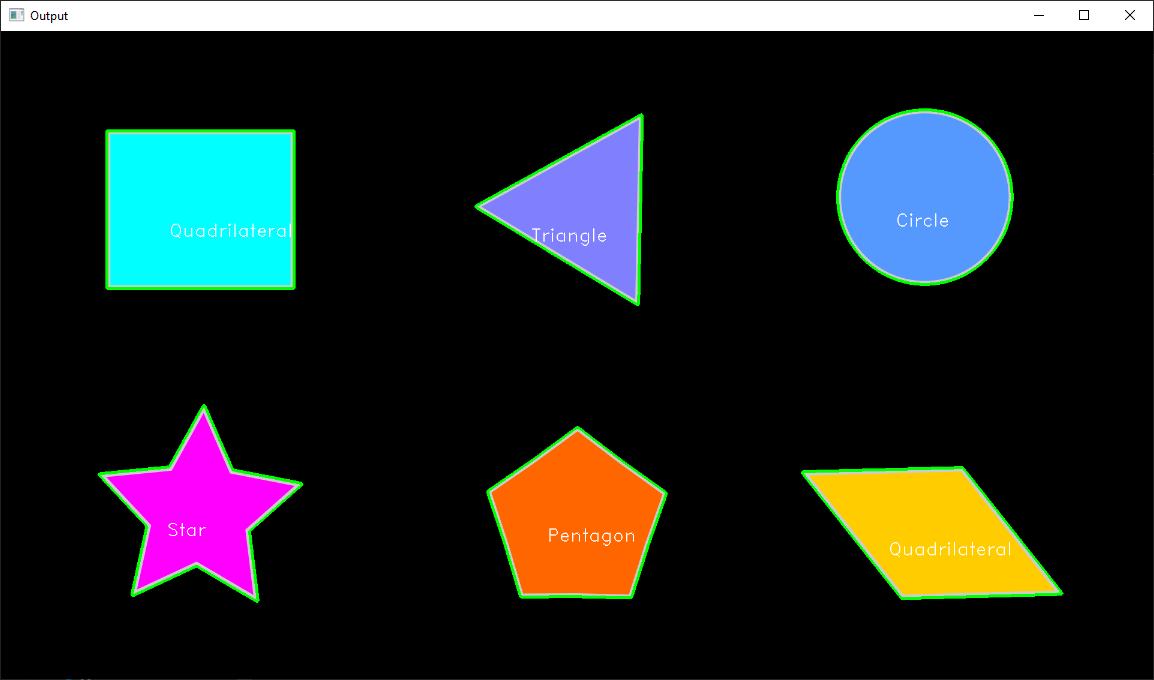
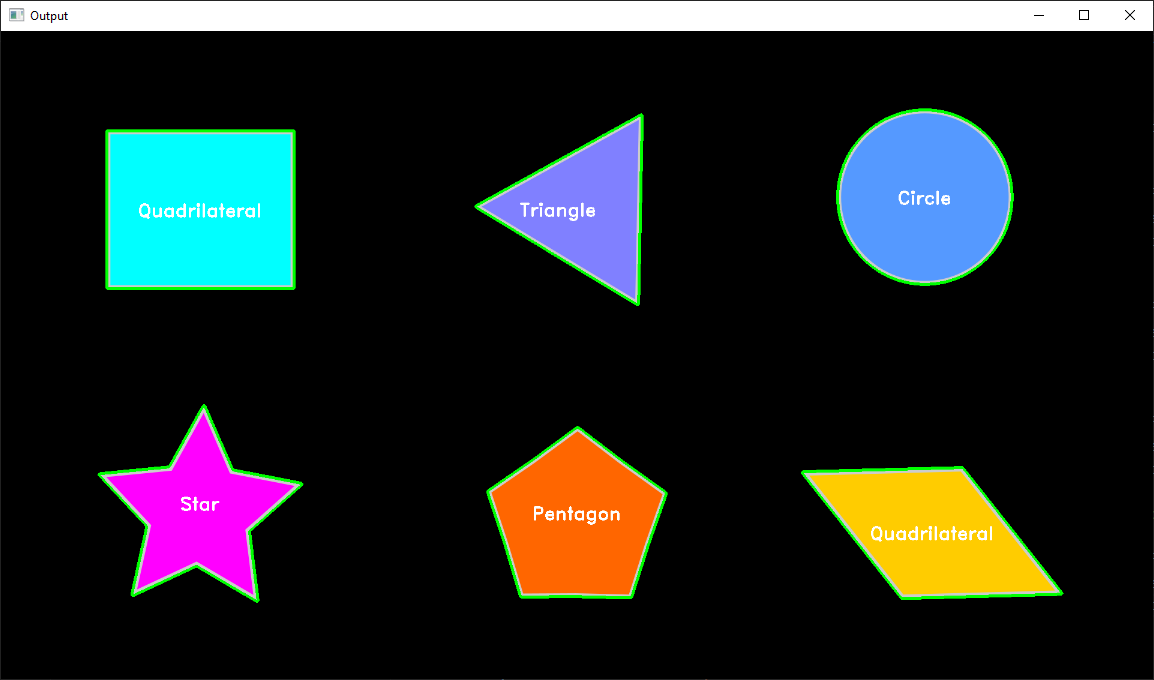
Updated Text Label Coordinates

diff --git a/Contour_Detection.py b/Contour_Detection.py
@@ -97,9 +97,8 @@ for i, contour in enumerate(contours):
 
     # Retrieving coordinates of the contour so that we can put text over the shape.
     x, y, w, h = cv2.boundingRect(approx)
-    x_mid = int(x + (w/3)) # This is an estimation of where the middle of the shape is in terms of the x-axis.
-    y_mid = int(y + (h/1.5)) # This is an estimation of where the middle of the shape is in terms of the y-axis.
-
+    x_mid = int(x + w/2) # This is an estimation of where the middle of the shape is in terms of the x-axis.
+    y_mid = int(y + h/2) # This is an estimation of where the middle of the shape is in terms of the y-axis.
     # Setting some variables which will be used to display text on the final image
     # cv.putText(img, text, org, fontFace, fontScale, color[, thickness[, lineType[, bottomLeftOrigin]]]) -> img
     text_coordinates = (x_mid, y_mid)
@@ -109,22 +108,40 @@ for i, contour in enumerate(contours):
     else:
         text_color = (255, 255, 255) # white
     text_font = cv2.FONT_HERSHEY_DUPLEX
-    text_thickness = 1  
+    text_thickness = 2
 
     # Identify the shape by the number of edges the contour has. 
     if len(approx) == 3:
-        cv2.putText(image, "Triangle", text_coordinates, text_font, text_thickness, text_color, text_thickness) # Text on the image
+        text = "Triangle"
+        (text_width, text_height), baseline = cv2.getTextSize(text, text_font, fontScale, text_thickness)
+        text_coordinates = (int(x_mid - text_width/2), int(y_mid + text_height/2))
+        cv2.putText(image, "Triangle", text_coordinates, text_font, fontScale, text_color, text_thickness) # Text on the image
     elif len(approx) == 4: # square / rectangle / parallelogram /
-        cv2.putText(image, "Quadrilateral", text_coordinates, text_font, text_thickness, text_color, text_thickness)
-    elif len(approx) == 5: 
-        cv2.putText(image, "Pentagon", text_coordinates, text_font, fontScale, text_color, text_thickness)
+        text = "Quadrilateral"
+        (text_width, text_height), baseline = cv2.getTextSize(text, text_font, fontScale, text_thickness)
+        text_coordinates = (int(x_mid - text_width/2), int(y_mid + text_height/2))
+        cv2.putText(image, text, text_coordinates, text_font, fontScale, text_color, text_thickness)
+    elif len(approx) == 5:
+        text = "Pentagon"
+        (text_width, text_height), baseline = cv2.getTextSize(text, text_font, fontScale, text_thickness)
+        text_coordinates = (int(x_mid - text_width/2), int(y_mid + text_height/2))
+        cv2.putText(image, text, text_coordinates, text_font, fontScale, text_color, text_thickness)
     elif len(approx) == 6:
-        cv2.putText(image, "Hexagon", text_coordinates, text_font, fontScale, text_color, text_thickness)
+        text = "Hexagon"
+        (text_width, text_height), baseline = cv2.getTextSize(text, text_font, fontScale, text_thickness)
+        text_coordinates = (int(x_mid - text_width/2), int(y_mid + text_height/2))
+        cv2.putText(image, text, text_coordinates, text_font, fontScale, text_color, text_thickness)
     elif len(approx) == 10:
-        cv2.putText(image, "Star", text_coordinates, text_font, fontScale, text_color, text_thickness)
+        text = "Star"
+        (text_width, text_height), baseline = cv2.getTextSize(text, text_font, fontScale, text_thickness)
+        text_coordinates = (int(x_mid - text_width/2), int(y_mid + text_height/2))
+        cv2.putText(image, text, text_coordinates, text_font, fontScale, text_color, text_thickness)
     else:
         # If the length is not any of the above, we assume the shape/contour to be a circle.
-        cv2.putText(image, "Circle", text_coordinates, text_font, fontScale, text_color, text_thickness)
+        text = "Circle"
+        (text_width, text_height), baseline = cv2.getTextSize(text, text_font, fontScale, text_thickness)
+        text_coordinates = (int(x_mid - text_width/2), int(y_mid + text_height/2))
+        cv2.putText(image, text, text_coordinates, text_font, fontScale, text_color, text_thickness)
     
 # Displaying the image with the detected shapes onto the screen
 output_window_name = "Output"
